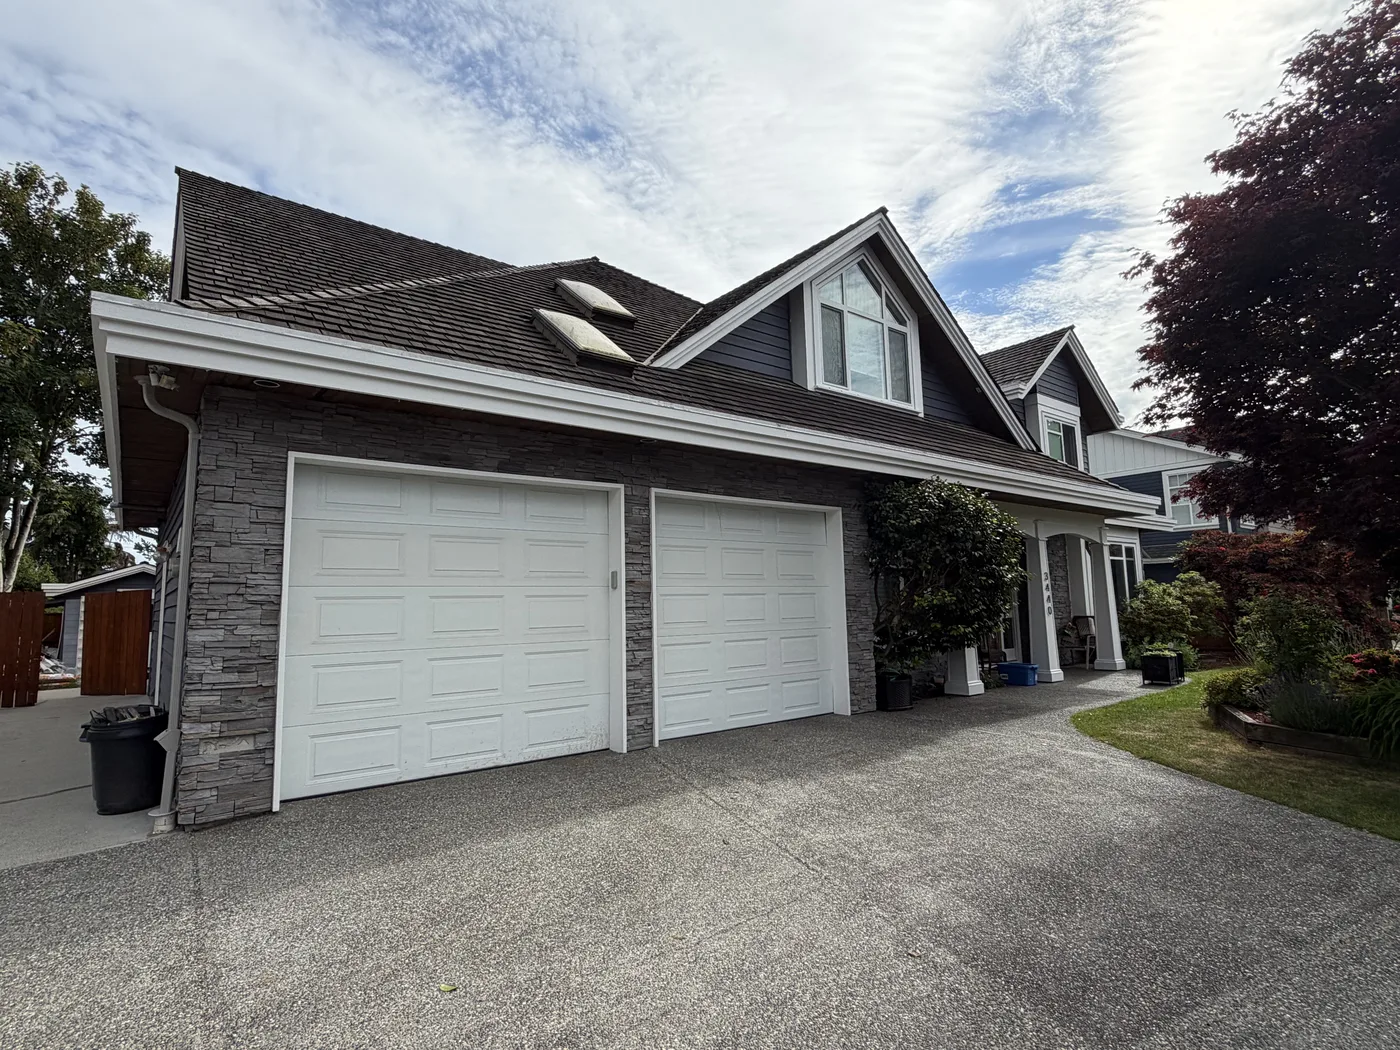
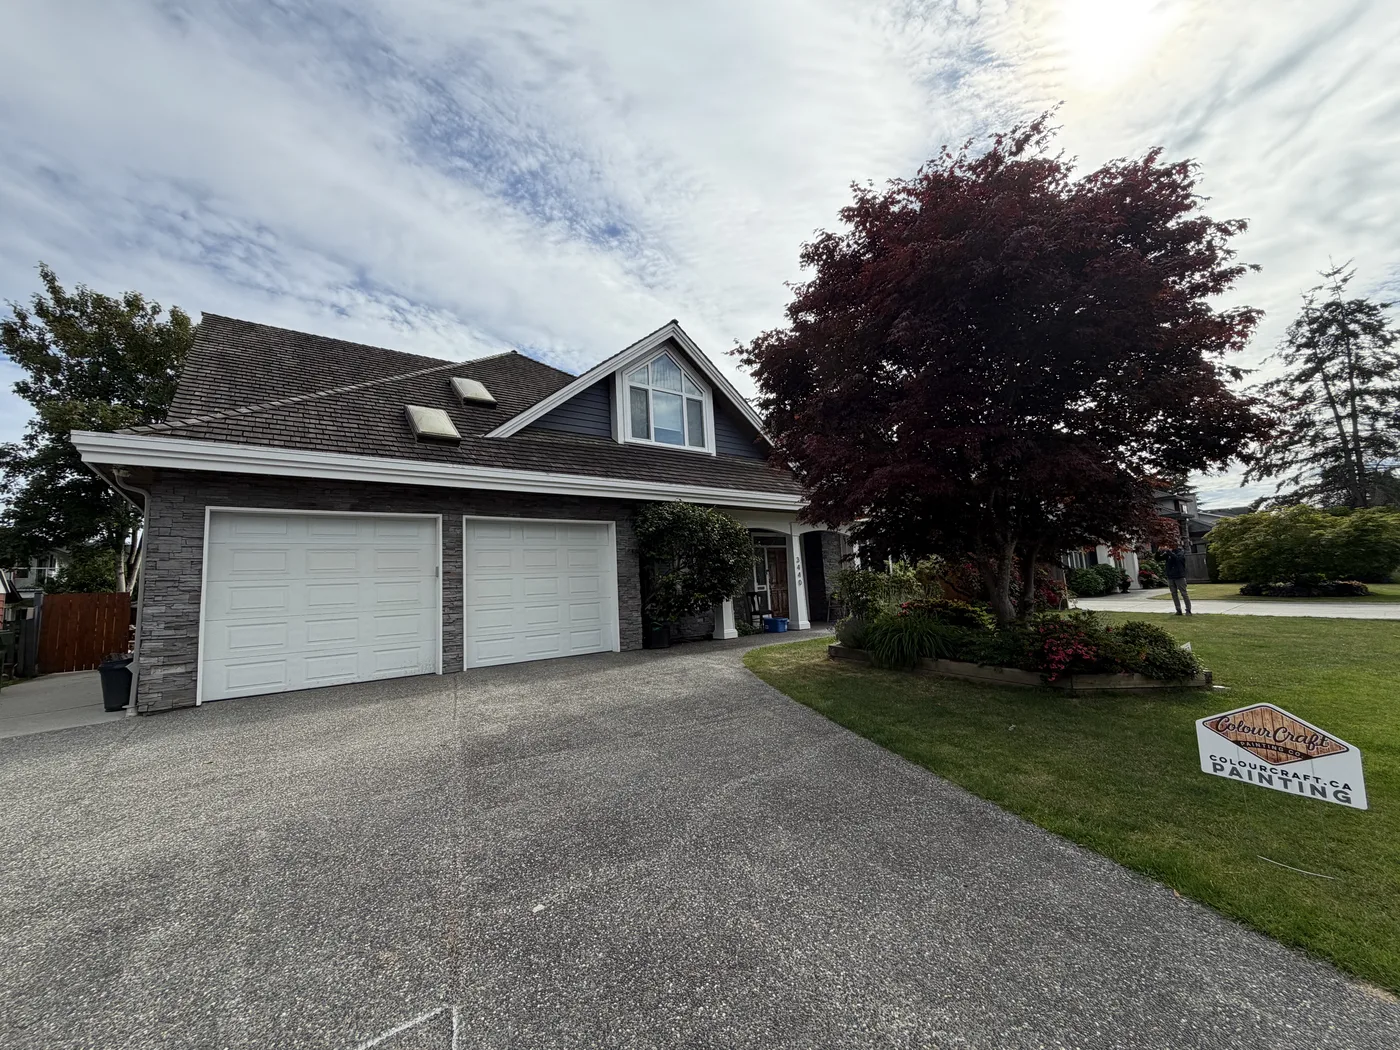
Sheila to crisp garage pair; Kelian/John Graham/Monika after-only
Sheila's hazy front pair replaced with garage corner (before cropped to
drop the car nose, after corrected with real blue sky) — after now
beats before; the three no-visible-delta pairs per Jared go single.

diff --git a/our-work.html b/our-work.html
@@ -748,11 +748,8 @@ a.rating-link:hover{text-decoration:underline;text-decoration-color:var(--gold);
       </div>
 
       <div class="card">
-        <div class="ba">
-          <img src="img/work/kelian-b.webp" alt="Full Exterior Repaint before, Steveston - Richmond" loading="lazy" width="1400" height="1050">
-          <img src="img/work/kelian-a.webp" alt="Full Exterior Repaint after by Colour Craft Painting" loading="lazy" width="1400" height="1050">
-          <span class="ba-chip before">BEFORE</span>
-          <span class="ba-chip after">AFTER</span>
+        <div class="ba single">
+          <img src="img/work/kelian-a.webp" alt="Steveston Richmond home after colour-matched trim repaint by Colour Craft Painting" loading="lazy" width="1400" height="1050">
         </div>
         <div class="card-body">
           <span class="card-tag">Steveston &middot; Richmond</span>
@@ -776,11 +773,8 @@ a.rating-link:hover{text-decoration:underline;text-decoration-color:var(--gold);
       </div>
 
       <div class="card">
-        <div class="ba">
-          <img src="img/work/johng-b.webp" alt="Trim, Fascia &amp; Garage Door before, Richmond" loading="lazy" width="1400" height="1050">
-          <img src="img/work/johng-a.webp" alt="Trim, Fascia &amp; Garage Door after by Colour Craft Painting" loading="lazy" width="1400" height="1050">
-          <span class="ba-chip before">BEFORE</span>
-          <span class="ba-chip after">AFTER</span>
+        <div class="ba single">
+          <img src="img/work/johng-a.webp" alt="Richmond home after colour-matched trim and garage door repaint by Colour Craft Painting" loading="lazy" width="1400" height="1050">
         </div>
         <div class="card-body">
           <span class="card-tag">Richmond</span>
@@ -829,11 +823,8 @@ a.rating-link:hover{text-decoration:underline;text-decoration-color:var(--gold);
       </div>
 
       <div class="card">
-        <div class="ba">
-          <img src="img/work/monika-b.webp" alt="Garage &amp; Shake Accents before, Tsawwassen - Delta" loading="lazy" width="1400" height="1050">
-          <img src="img/work/monika-a.webp" alt="Garage &amp; Shake Accents after by Colour Craft Painting" loading="lazy" width="1400" height="1050">
-          <span class="ba-chip before">BEFORE</span>
-          <span class="ba-chip after">AFTER</span>
+        <div class="ba single">
+          <img src="img/work/monika-a.webp" alt="Tsawwassen Delta garage gables after colour-matched repaint by Colour Craft Painting" loading="lazy" width="1400" height="1050">
         </div>
         <div class="card-body">
           <span class="card-tag">Tsawwassen &middot; Delta</span>

diff --git a/src/pages/our-work.html b/src/pages/our-work.html
@@ -252,11 +252,8 @@
       </div>
 
       <div class="card">
-        <div class="ba">
-          <img src="img/work/kelian-b.webp" alt="Full Exterior Repaint before, Steveston - Richmond" loading="lazy" width="1400" height="1050">
-          <img src="img/work/kelian-a.webp" alt="Full Exterior Repaint after by Colour Craft Painting" loading="lazy" width="1400" height="1050">
-          <span class="ba-chip before">BEFORE</span>
-          <span class="ba-chip after">AFTER</span>
+        <div class="ba single">
+          <img src="img/work/kelian-a.webp" alt="Steveston Richmond home after colour-matched trim repaint by Colour Craft Painting" loading="lazy" width="1400" height="1050">
         </div>
         <div class="card-body">
           <span class="card-tag">Steveston &middot; Richmond</span>
@@ -280,11 +277,8 @@
       </div>
 
       <div class="card">
-        <div class="ba">
-          <img src="img/work/johng-b.webp" alt="Trim, Fascia &amp; Garage Door before, Richmond" loading="lazy" width="1400" height="1050">
-          <img src="img/work/johng-a.webp" alt="Trim, Fascia &amp; Garage Door after by Colour Craft Painting" loading="lazy" width="1400" height="1050">
-          <span class="ba-chip before">BEFORE</span>
-          <span class="ba-chip after">AFTER</span>
+        <div class="ba single">
+          <img src="img/work/johng-a.webp" alt="Richmond home after colour-matched trim and garage door repaint by Colour Craft Painting" loading="lazy" width="1400" height="1050">
         </div>
         <div class="card-body">
           <span class="card-tag">Richmond</span>
@@ -333,11 +327,8 @@
       </div>
 
       <div class="card">
-        <div class="ba">
-          <img src="img/work/monika-b.webp" alt="Garage &amp; Shake Accents before, Tsawwassen - Delta" loading="lazy" width="1400" height="1050">
-          <img src="img/work/monika-a.webp" alt="Garage &amp; Shake Accents after by Colour Craft Painting" loading="lazy" width="1400" height="1050">
-          <span class="ba-chip before">BEFORE</span>
-          <span class="ba-chip after">AFTER</span>
+        <div class="ba single">
+          <img src="img/work/monika-a.webp" alt="Tsawwassen Delta garage gables after colour-matched repaint by Colour Craft Painting" loading="lazy" width="1400" height="1050">
         </div>
         <div class="card-body">
           <span class="card-tag">Tsawwassen &middot; Delta</span>
